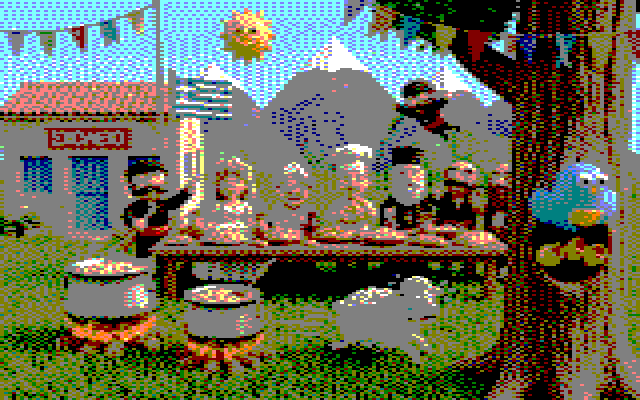
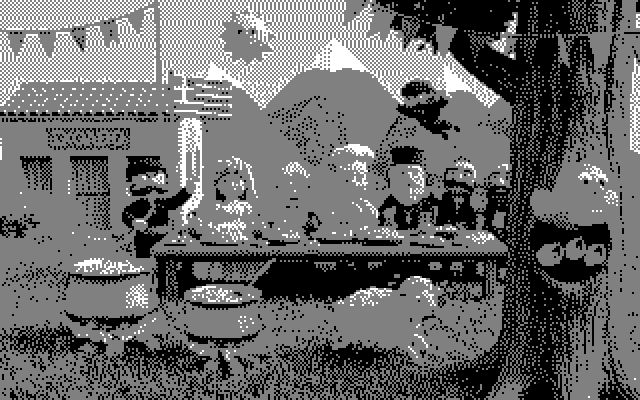
panigiri: η πρώτη σε Mode 1, ασπρόμαυρη
Το make_screen.py δουλεύει πλέον και στους δύο τρόπους. Και οι δύο γεμίζουν
την ίδια οθόνη 16K με 80 bytes τη γραμμή· αλλάζει μόνο πόσα pixels χωράνε στο
byte: Mode 0 160x200 με 16 pens και pixel 2:1, Mode 1 320x200 με 4 pens και
pixel 1:1. Η οθόνη βγαίνει 320x200 μονάδες και στους δύο.

Ασπρόμαυρο: ο CPC έχει ΑΚΡΙΒΩΣ τρεις ουδέτερους τόνους — #000000, #808080,
#FFFFFF. Τέταρτος δεν υπάρχει· ό,τι κι αν βάλεις έχει ορατή απόχρωση. Το Mode
1 σηκώνει τέσσερις πένες, οπότε η τέταρτη μένει αχρησιμοποίητη. Η μετατροπή
γίνεται σε φωτεινότητα ΠΡΙΝ τον κβαντισμό: αλλιώς κόκκινο και μπλε του ίδιου
τόνου καταλήγουν σε διαφορετικό γκρι.

diff --git a/panigiri/src/make_screen.py b/panigiri/src/make_screen.py
@@ -34,9 +34,23 @@ HERE = os.path.dirname(os.path.abspath(__file__))
 OUT = os.path.dirname(HERE)
 TMP = os.environ.get('TMPDIR', '/tmp')
 
-W, H = 160, 200
-ROW_BYTES = 80
+ROW_BYTES = 80                       # και στους δύο τρόπους
 SCREEN = 0x4000                      # 16384 bytes, #C000-#FFFF
+
+# Και οι δύο τρόποι γεμίζουν ΤΗΝ ΙΔΙΑ οθόνη 16K με 80 bytes τη γραμμή. Αλλάζει
+# μόνο πόσα pixels χωράνε στο byte, και άρα πόσο φαρδύ είναι το pixel:
+#
+#   Mode 0  160x200 pixels, 16 pens, 2 px/byte, pixel 2:1
+#   Mode 1  320x200 pixels,  4 pens, 4 px/byte, pixel 1:1
+#
+# Η ΟΘΟΝΗ βγαίνει ίδια και στους δύο: 320x200 μονάδες, λόγος 1,600.
+MODES = {
+    0: dict(w=160, pens=16, ppb=2, aspect=2, pack=cpcimg.mode0_byte,
+            unpack=cpcimg.mode0_pens),
+    1: dict(w=320, pens=4, ppb=4, aspect=1, pack=cpcimg.mode1_byte,
+            unpack=cpcimg.mode1_pens),
+}
+H = 200
 
 # Βάρη για την απόσταση χρωμάτων: το μάτι βλέπει πιο πολύ το πράσινο.
 WEIGHT = (2.0, 4.0, 3.0)
@@ -88,12 +102,16 @@ FS_STRENGTH = 0.35
 # οπότε οι παλέτες τους βγαίνουν ανεξάρτητα και συγκρίνονται: αν διαφέρουν,
 # η διαφορά είναι πραγματική και όχι τύχη του διαλέκτη.
 PICTURES = {
+    # Ασπρόμαυρη. Οι ΜΟΝΟΙ ουδέτεροι τόνοι του CPC είναι αυτοί οι τρεις:
+    # #000000, #808080, #FFFFFF. Τέταρτος δεν υπάρχει — ό,τι κι αν βάλεις
+    # έχει ορατή απόχρωση (#8080FF μπλε, #FFFF80 κίτρινο). Το Mode 1 σηκώνει
+    # τέσσερις πένες· η τέταρτη μένει αχρησιμοποίητη και παίρνει μαύρο.
     'panigiri': dict(
-        src='panigiri_source.jpg',
-        palette=[0, 1, 3, 6, 9, 10, 11, 12, 13, 14, 15, 16, 22, 23, 25, 26],
+        src='panigiri_source.jpg', mode=1, grey=True,
+        palette=[0, 13, 26],
     ),
     'panigiri_drone': dict(
-        src='panigiri_drone_source.jpg',
+        src='panigiri_drone_source.jpg', mode=0,
         palette=[0, 1, 3, 4, 9, 10, 12, 13, 14, 15, 16, 17, 22, 23, 25, 26],
     ),
 }
@@ -105,30 +123,40 @@ def dist(a, b):
 
 # ------------------------------------------------------- μνήμη οθόνης
 
-def offset(x, y):
-    return (y & 7) * 0x800 + (y >> 3) * ROW_BYTES + (x >> 1)
+def offset(x, y, mode):
+    return (y & 7) * 0x800 + (y >> 3) * ROW_BYTES + x // MODES[mode]['ppb']
 
 
-assert offset(0, 0) == 0
-assert offset(0, 1) == 0x800, 'η επόμενη γραμμή είναι +#800'
-assert offset(0, 8) == ROW_BYTES, 'κάθε 8 γραμμές γυρνάει στην αρχή +80'
-assert offset(159, 199) == 16335, 'η τελευταία ορατή θέση'
-assert offset(1, 0) == 0 and offset(2, 0) == 1, '2 pixels το byte'
+assert offset(0, 0, 0) == 0
+assert offset(0, 1, 0) == 0x800, 'η επόμενη γραμμή είναι +#800'
+assert offset(0, 8, 0) == ROW_BYTES, 'κάθε 8 γραμμές γυρνάει στην αρχή +80'
+assert offset(159, 199, 0) == 16335, 'Mode 0: η τελευταία ορατή θέση'
+assert offset(319, 199, 1) == 16335, 'Mode 1: η ίδια τελευταία θέση'
+assert offset(1, 0, 0) == 0 and offset(2, 0, 0) == 1, 'Mode 0: 2 pixels το byte'
+assert offset(3, 0, 1) == 0 and offset(4, 0, 1) == 1, 'Mode 1: 4 pixels το byte'
 
 
 # ---------------------------------------------------------- εξαγωγή
 
-def load(src):
+def load(src, mode=0, grey=False):
     """Η πηγή σε 160x200 RGB.
 
     LANCZOS: η εικόνα σμικρύνεται 12,5 φορές και χρειάζεται φίλτρο που κρατάει
     ακμές. Με BOX οι λεπτομέρειες (πρόσωπα, σημαία, γράμματα) γίνονταν λάσπη.
     """
     im = Image.open(os.path.join(OUT, src)).convert('RGB')
-    assert abs(im.size[0] / im.size[1] - W * 2 / H) < 0.02, \
-        'η πηγή %s δεν έχει τον λόγο της οθόνης (%.3f)' % (im.size, W * 2 / H)
-    small = im.resize((W, H), Image.LANCZOS)
-    return [[small.getpixel((x, y)) for x in range(W)] for y in range(H)]
+    w = MODES[mode]['w']
+    assert abs(im.size[0] / im.size[1] - 320.0 / H) < 0.02, \
+        'η πηγή %s δεν έχει τον λόγο της οθόνης (%.3f)' % (im.size, 320.0 / H)
+    small = im.resize((w, H), Image.LANCZOS)
+    if grey:
+        # Πρώτα σε φωτεινότητα, ΜΕΤΑ κβαντισμός. Αν αφήσεις το χρώμα και
+        # αφήσεις την απόσταση να διαλέξει ανάμεσα σε γκρι, το κόκκινο και το
+        # μπλε του ίδιου τόνου καταλήγουν σε διαφορετικό γκρι: η φωτογραφία
+        # βγαίνει με λάθος τόνους εκεί που η πηγή είχε κορεσμένα χρώματα.
+        # Τα βάρη είναι τα φωτομετρικά, όχι ο μέσος όρος.
+        small = small.convert('L').convert('RGB')
+    return [[small.getpixel((x, y)) for x in range(w)] for y in range(H)]
 
 
 # ----------------------------------------------------------- παλέτα
@@ -233,10 +261,11 @@ def quant_fs(pix, pal, strength=FS_STRENGTH):
     χαθούν οι βαθμίδες.
     """
     buf = [[list(map(float, p)) for p in row] for row in pix]
+    w = len(pix[0])
     out = []
     for y in range(H):
-        line = [0] * W
-        xs = range(W) if y % 2 == 0 else range(W - 1, -1, -1)
+        line = [0] * w
+        xs = range(w) if y % 2 == 0 else range(w - 1, -1, -1)
         step = 1 if y % 2 == 0 else -1
         for x in xs:
             old = buf[y][x]
@@ -246,7 +275,7 @@ def quant_fs(pix, pal, strength=FS_STRENGTH):
             for dx, dy, f in ((step, 0, 7 / 16), (-step, 1, 3 / 16),
                               (0, 1, 5 / 16), (step, 1, 1 / 16)):
                 nx, ny = x + dx, y + dy
-                if 0 <= nx < W and ny < H:
+                if 0 <= nx < w and ny < H:
                     for c in range(3):
                         buf[ny][nx][c] += err[c] * f
         out.append(line)
@@ -258,30 +287,36 @@ QUANT = {'none': quant_none, 'ordered': quant_ordered, 'fs': quant_fs}
 
 # ------------------------------------------------------------- έξοδος
 
-def to_screen(pens):
-    """pens 160x200 -> 16384 bytes στη διάταξη της μνήμης οθόνης."""
+def to_screen(pens, mode):
+    """pens -> 16384 bytes στη διάταξη της μνήμης οθόνης."""
+    m = MODES[mode]
+    ppb, pack = m['ppb'], m['pack']
     buf = bytearray(SCREEN)
     for y in range(H):
-        for x in range(0, W, 2):
-            buf[offset(x, y)] = cpcimg.mode0_byte(pens[y][x], pens[y][x + 1])
+        row = pens[y]
+        for x in range(0, m['w'], ppb):
+            buf[offset(x, y, mode)] = pack(*row[x:x + ppb])
     return bytes(buf)
 
 
-def verify(pens, scr):
+def verify(pens, scr, mode):
     """Διαβάζει ΟΛΗ την οθόνη πίσω σε pens και τη συγκρίνει.
 
     Οι ισχυρισμοί του cpcimg δένουν ήδη κωδικοποιητή και αποκωδικοποιητή· αυτό
     εδώ πιάνει το άλλο λάθος που κάνει κανείς εδώ — λάθος τύπο διεύθυνσης.
     """
+    m = MODES[mode]
+    ppb, unpack = m['ppb'], m['unpack']
     bad = 0
     for y in range(H):
-        for x in range(0, W, 2):
-            a, b = cpcimg.mode0_pens(scr[offset(x, y)])
-            bad += (a != pens[y][x]) + (b != pens[y][x + 1])
+        row = pens[y]
+        for x in range(0, m['w'], ppb):
+            got = unpack(scr[offset(x, y, mode)])
+            bad += sum(1 for k in range(ppb) if got[k] != row[x + k])
     return bad
 
 
-def preview(path, pens, pal_rgb, zoom=2):
+def preview(path, pens, pal_rgb, aspect=2, zoom=2):
     """PNG με ΣΩΣΤΗ αναλογία: κάθε pixel 2 φορές φαρδύτερο από ψηλό.
 
     Το zoom είναι 2 και όχι 4 επίτηδες. Στο 4 κάθε pixel του CPC γίνεται
@@ -290,12 +325,13 @@ def preview(path, pens, pal_rgb, zoom=2):
     x4 ήμουν έτοιμος να ρίξω την ένταση του dither για να «καθαρίσει» μια
     εικόνα που δεν ήταν βρόμικη.
     """
-    im = Image.new('RGB', (W, H))
+    w = len(pens[0])
+    im = Image.new('RGB', (w, H))
     im.putdata([pal_rgb[p] for row in pens for p in row])
-    im.resize((W * 2 * zoom, H * zoom), Image.NEAREST).save(path)
+    im.resize((w * aspect * zoom, H * zoom), Image.NEAREST).save(path)
 
 
-def preview_crt(path, pens, pal_rgb):
+def preview_crt(path, pens, pal_rgb, aspect=2):
     """Πώς δείχνει σε οθόνη καθοδικού σωλήνα, κατά προσέγγιση.
 
     Το φωσφόρο απλώνει και το pixel του Mode 0 είναι διπλάσια φαρδύ, οπότε ο
@@ -303,30 +339,32 @@ def preview_crt(path, pens, pal_rgb):
     προσομοίωση — είναι υπενθύμιση ότι η σκληρή εικόνα του LCD δεν είναι ο
     προορισμός.
     """
-    im = Image.new('RGB', (W, H))
+    w = len(pens[0])
+    im = Image.new('RGB', (w, H))
     im.putdata([pal_rgb[p] for row in pens for p in row])
-    big = im.resize((W * 2, H), Image.NEAREST)
-    big.resize((W * 8, H * 4), Image.LANCZOS) \
-       .resize((W * 4, H * 2), Image.LANCZOS).save(path)
+    big = im.resize((w * aspect, H), Image.NEAREST)
+    big.resize((640 * 2, H * 4), Image.LANCZOS) \
+       .resize((640, H * 2), Image.LANCZOS).save(path)
 
 
 def sheet(path, pens, pal_rgb):
     """Το ακατέργαστο 160x200 με παλέτα, για Aseprite."""
-    im = Image.new('P', (W, H))
+    w = len(pens[0])
+    im = Image.new('P', (w, H))
     flat = []
     for rgb in pal_rgb:
         flat += list(rgb)
     im.putpalette(flat + [0] * (768 - len(flat)))
     px = im.load()
     for y in range(H):
-        for x in range(W):
+        for x in range(w):
             px[x, y] = pens[y][x]
     im.save(path)
 
 
-def write_palette(key, sel):
-    lines = ['GIMP Palette', 'Name: %s CPC Mode 0' % key, 'Columns: 4',
-             '# Τα 16 pens, από τα 27 χρώματα του firmware.',
+def write_palette(key, sel, mode=0):
+    lines = ['GIMP Palette', 'Name: %s CPC Mode %d' % (key, mode), 'Columns: 4',
+             '# Τα %d pens, από τα 27 χρώματα του firmware.' % len(sel),
              '# Η στήλη FW είναι ο αριθμός για INK / SCR SET INK.', '#']
     for pen, fw in enumerate(sel):
         r, g, b = cpcimg.FW_RGB[fw]
@@ -336,7 +374,7 @@ def write_palette(key, sel):
         f.write('\n'.join(lines) + '\n')
 
     # Εναλλακτικός δρόμος χωρίς assembler: η ίδια οθόνη από BASIC.
-    basic = ['10 MODE 0', '20 BORDER %d' % sel[0]]
+    basic = ['10 MODE %d' % mode, '20 BORDER %d' % sel[0]]
     n = 30
     for pen, fw in enumerate(sel):
         basic.append('%d INK %d,%d' % (n, pen, fw))
@@ -348,7 +386,7 @@ def write_palette(key, sel):
         f.write('\n'.join(basic) + '\n')
 
 
-def write_asm(key, sel):
+def write_asm(key, sel, mode=0):
     """Ο loader. Βάζει την παλέτα με SCR SET INK, που δέχεται αριθμούς FIRMWARE.
 
     ΟΧΙ απευθείας στον Gate Array. Οι τιμές υλικού είναι άλλος πίνακας και δεν
@@ -358,7 +396,7 @@ def write_asm(key, sel):
     δεν υπάρχει δεύτερος πίνακας να ξεστρατίσει.
     """
     lines = [
-        '; %s.asm — ολόκληρη οθόνη Mode 0 για Amstrad CPC 6128' % key,
+        '; %s.asm — ολόκληρη οθόνη Mode %d για Amstrad CPC 6128' % (key, mode),
         '; ΠΑΡΑΓΕΤΑΙ ΑΥΤΟΜΑΤΑ από src/make_screen.py — μην το πειράζεις.',
         ';',
         '; Δείχνει την εικόνα και περιμένει πλήκτρο. Τα δεδομένα είναι ήδη στη',
@@ -373,8 +411,9 @@ def write_asm(key, sel):
         '    run start',
         '',
         'start:',
-        '    ld a,0',
-        '    call SCR_SET_MODE          ; Mode 0, 160x200, 16 pens',
+        '    ld a,%d' % mode,
+        '    call SCR_SET_MODE          ; Mode %d, %dx200, %d pens'
+        % (mode, MODES[mode]['w'], MODES[mode]['pens']),
         '',
         '    ld hl,inks',
         '    ld e,0                     ; e = αριθμός pen',
@@ -391,7 +430,7 @@ def write_asm(key, sel):
         '    inc hl',
         '    inc e',
         '    ld a,e',
-        '    cp 16',
+        '    cp %d' % len(sel),
         '    jr nz,ink_loop',
         '',
         '    ld a,(inks)                ; το border στο ίδιο με το pen 0',
@@ -409,7 +448,7 @@ def write_asm(key, sel):
         '',
         'inks:',
         '    db ' + ','.join(str(f) for f in sel)
-        + '   ; firmware numbers, pen 0..15',
+        + '   ; firmware numbers, pen 0..%d' % (len(sel) - 1),
         '',
         'picture:',
         '    incbin "%s.scr"' % key,
@@ -448,19 +487,22 @@ def perceived(pix, pens, pal_rgb, radius=1.2):
     τίποτα, επειδή μετράει κάθε pixel χωριστά — ενώ ο dither δουλεύει ακριβώς
     στο ότι το μάτι ΔΕΝ τα μετράει χωριστά.
     """
-    a = Image.new('RGB', (W, H))
+    w = len(pens[0])
+    a = Image.new('RGB', (w, H))
     a.putdata([p for row in pix for p in row])
-    b = Image.new('RGB', (W, H))
+    b = Image.new('RGB', (w, H))
     b.putdata([pal_rgb[p] for row in pens for p in row])
     a = a.filter(ImageFilter.GaussianBlur(radius))
     b = b.filter(ImageFilter.GaussianBlur(radius))
     pa, pb = a.load(), b.load()
-    tot = sum(dist(pa[x, y], pb[x, y]) for y in range(H) for x in range(W))
-    return tot / (W * H) / sum(WEIGHT) ** 0.5
+    tot = sum(dist(pa[x, y], pb[x, y]) for y in range(H) for x in range(w))
+    return tot / (w * H) / sum(WEIGHT) ** 0.5
 
 
 def build(key, cfg):
-    pix = load(cfg['src'])
+    mode = cfg.get('mode', 0)
+    m = MODES[mode]
+    pix = load(cfg['src'], mode, cfg.get('grey', False))
     sel = cfg['palette']
     pal_rgb = [cpcimg.FW_RGB[i] for i in sel]
     hist = {}
@@ -472,33 +514,39 @@ def build(key, cfg):
               for p, w in hist.items()) / tot / sum(WEIGHT) ** 0.5
 
     pens = QUANT[DITHER](pix, pal_rgb)
-    scr = to_screen(pens)
-    bad = verify(pens, scr)
+    scr = to_screen(pens, mode)
+    bad = verify(pens, scr, mode)
     assert bad == 0, '%d pixels δεν γύρισαν σωστά από τη μνήμη οθόνης' % bad
     assert len(scr) == SCREEN
 
     with open(os.path.join(OUT, key + '.scr'), 'wb') as f:
         f.write(scr)
-    sheet(os.path.join(OUT, key + '_mode0.png'), pens, pal_rgb)
-    preview(os.path.join(OUT, key + '_preview.png'), pens, pal_rgb)
-    preview_crt(os.path.join(OUT, key + '_preview_crt.png'), pens, pal_rgb)
-    write_palette(key, sel)
-    write_asm(key, sel)
+    sheet(os.path.join(OUT, '%s_mode%d.png' % (key, mode)), pens, pal_rgb)
+    preview(os.path.join(OUT, key + '_preview.png'), pens, pal_rgb, m['aspect'])
+    preview_crt(os.path.join(OUT, key + '_preview_crt.png'), pens, pal_rgb,
+                m['aspect'])
+    write_palette(key, sel, mode)
+    write_asm(key, sel, mode)
 
     cnt = {}
     for row in pens:
         for p in row:
             cnt[p] = cnt.get(p, 0) + 1
-    dead = [i for i in range(16) if not cnt.get(i)]
+    # Η παλέτα επιτρέπεται να έχει ΛΙΓΟΤΕΡΕΣ πένες από όσες σηκώνει ο τρόπος:
+    # σε ασπρόμαυρο ο CPC έχει ακριβώς τρεις ουδέτερους τόνους (#000000,
+    # #808080, #FFFFFF) και τίποτα να βάλεις τέταρτο δεν είναι ουδέτερο.
+    dead = [i for i in range(len(sel)) if not cnt.get(i)]
     assert not dead, '%s: νεκρές πένες %s' % (key, dead)
 
-    print('%s — %s' % (key, cfg['src']))
+    print('%s — %s, Mode %d (%dx%d, %d pens)'
+          % (key, cfg['src'], mode, m['w'], H, m['pens']))
     print('   %d διαφορετικά χρώματα σε %d pixels' % (len(hist), tot))
     print('   παλέτα (firmware): %s' % ', '.join(str(f) for f in sel))
     print('   σφάλμα %.2f/255 πριν τον dither, %.2f μετά'
           % (err, perceived(pix, pens, pal_rgb)))
-    print('   16/16 πένες σε χρήση, η πιο σπάνια %.2f%%, %d bytes οθόνης'
-          % (100.0 * min(cnt.values()) / (W * H), len(scr)))
+    print('   %d/%d πένες σε χρήση, η πιο σπάνια %.2f%%, %d bytes οθόνης'
+          % (len(cnt), m['pens'], 100.0 * min(cnt.values()) / (m['w'] * H),
+             len(scr)))
     return sel
 
 
@@ -509,7 +557,9 @@ def main():
     if '--check-palette' in sys.argv:
         for key in keys:
             cfg = PICTURES[key]
-            auto, _ = choose_palette(load(cfg['src']))
+            mode = cfg.get('mode', 0)
+            auto, _ = choose_palette(load(cfg['src'], mode),
+                                     MODES[mode]['pens'])
             if cfg['palette'] is None:
                 print('%-16s %s   <-- γράψ' "'" 'το στο PICTURES' % (key, auto))
             else:
@@ -528,7 +578,7 @@ def main():
     pals = {}
     for key in keys:
         pals[key] = build(key, PICTURES[key])
-    if len(pals) > 1:
+    if len(pals) > 1 and len({PICTURES[k].get('mode', 0) for k in pals}) == 1:
         a, b = list(pals.values())[:2]
         same = sorted(set(a) & set(b))
         print('\nοι δύο παλέτες μοιράζονται %d/16 πένες' % len(same))
